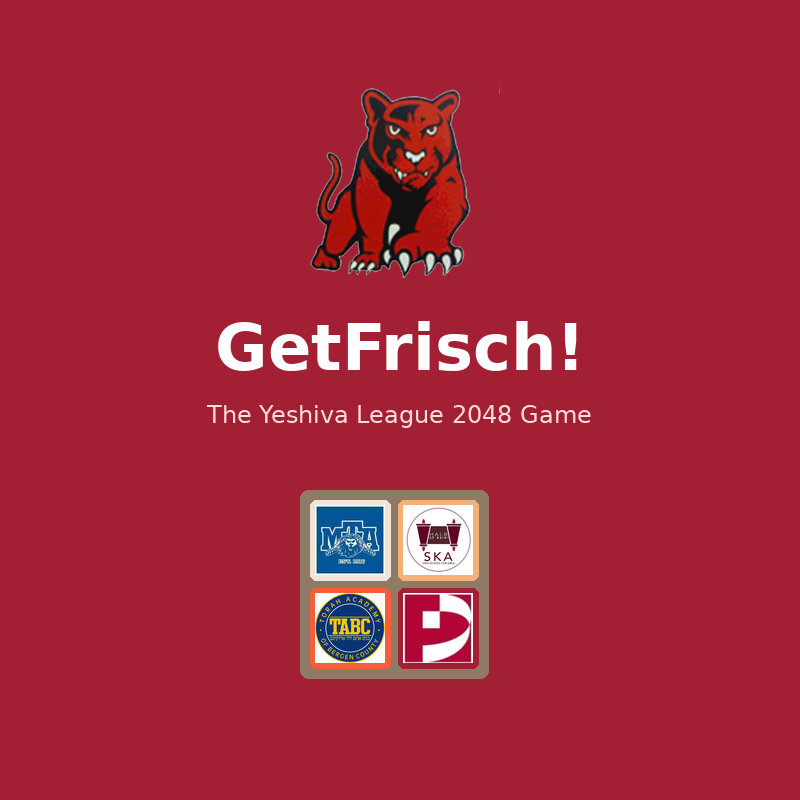
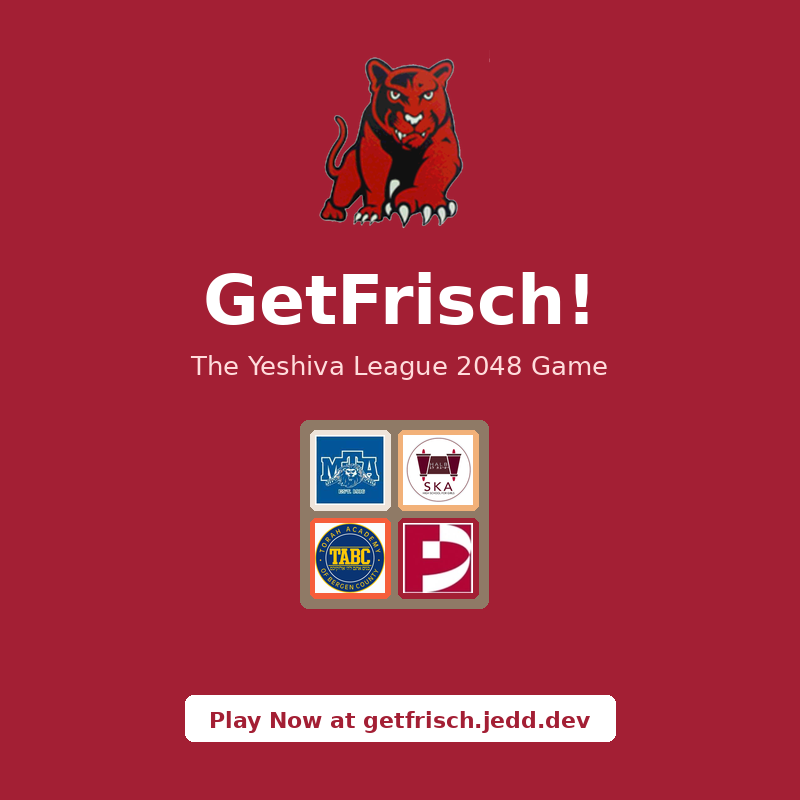
Update OG meta tags: correct URL, title, and refreshed images
- Change domain from getfrisch.com to getfrisch.jedd.dev
- Update title to "Combine Schools in the Yeshiva League 2048 Game"
- Update og:image:alt with Play Now CTA mention
- Refresh OG images

Changed region(s): [[0.2188, 0.5, 0.7812, 0.9375], [0.2188, 0.0625, 0.75, 0.4688]]

diff --git a/client/index.html b/client/index.html
@@ -13,30 +13,30 @@
   </script>
 
   <meta charset="utf-8">
-  <title>GetFrisch!</title>
+  <title>GetFrisch! - Combine Schools in the Yeshiva League 2048 Game</title>
 
   <!-- Primary Meta Tags -->
-  <meta name="title" content="GetFrisch! - The Yeshiva League 2048 Game">
+  <meta name="title" content="GetFrisch! - Combine Schools in the Yeshiva League 2048 Game">
   <meta name="description" content="Combine Yeshiva League high schools in this 2048-style puzzle game. Merge tiles to reach the almighty Frisch! Compete on the leaderboard against other players.">
   <meta name="theme-color" content="#A31F34">
 
   <!-- Open Graph / Facebook -->
   <meta property="og:type" content="website">
-  <meta property="og:url" content="https://getfrisch.com/">
-  <meta property="og:title" content="GetFrisch! - The Yeshiva League 2048 Game">
+  <meta property="og:url" content="https://getfrisch.jedd.dev/">
+  <meta property="og:title" content="GetFrisch! - Combine Schools in the Yeshiva League 2048 Game">
   <meta property="og:description" content="Combine Yeshiva League high schools in this 2048-style puzzle game. Merge tiles to reach the almighty Frisch! Compete on the leaderboard.">
-  <meta property="og:image" content="https://getfrisch.com/meta/og-image.png">
+  <meta property="og:image" content="https://getfrisch.jedd.dev/meta/og-image.png">
   <meta property="og:image:width" content="1200">
   <meta property="og:image:height" content="630">
-  <meta property="og:image:alt" content="GetFrisch game board showing Yeshiva League school tiles in a 2048-style grid">
+  <meta property="og:image:alt" content="GetFrisch game board showing Yeshiva League school tiles in a 2048-style grid with a Play Now call to action">
   <meta property="og:site_name" content="GetFrisch!">
 
   <!-- Twitter -->
   <meta property="twitter:card" content="summary_large_image">
-  <meta property="twitter:url" content="https://getfrisch.com/">
-  <meta property="twitter:title" content="GetFrisch! - The Yeshiva League 2048 Game">
+  <meta property="twitter:url" content="https://getfrisch.jedd.dev/">
+  <meta property="twitter:title" content="GetFrisch! - Combine Schools in the Yeshiva League 2048 Game">
   <meta property="twitter:description" content="Combine Yeshiva League high schools in this 2048-style puzzle game. Merge tiles to reach the almighty Frisch!">
-  <meta property="twitter:image" content="https://getfrisch.com/meta/og-image.png">
+  <meta property="twitter:image" content="https://getfrisch.jedd.dev/meta/og-image.png">
 
   <link href="style/main.css" rel="stylesheet" type="text/css">
   <link rel="icon" type="image/x-icon" href="favicon.ico">
